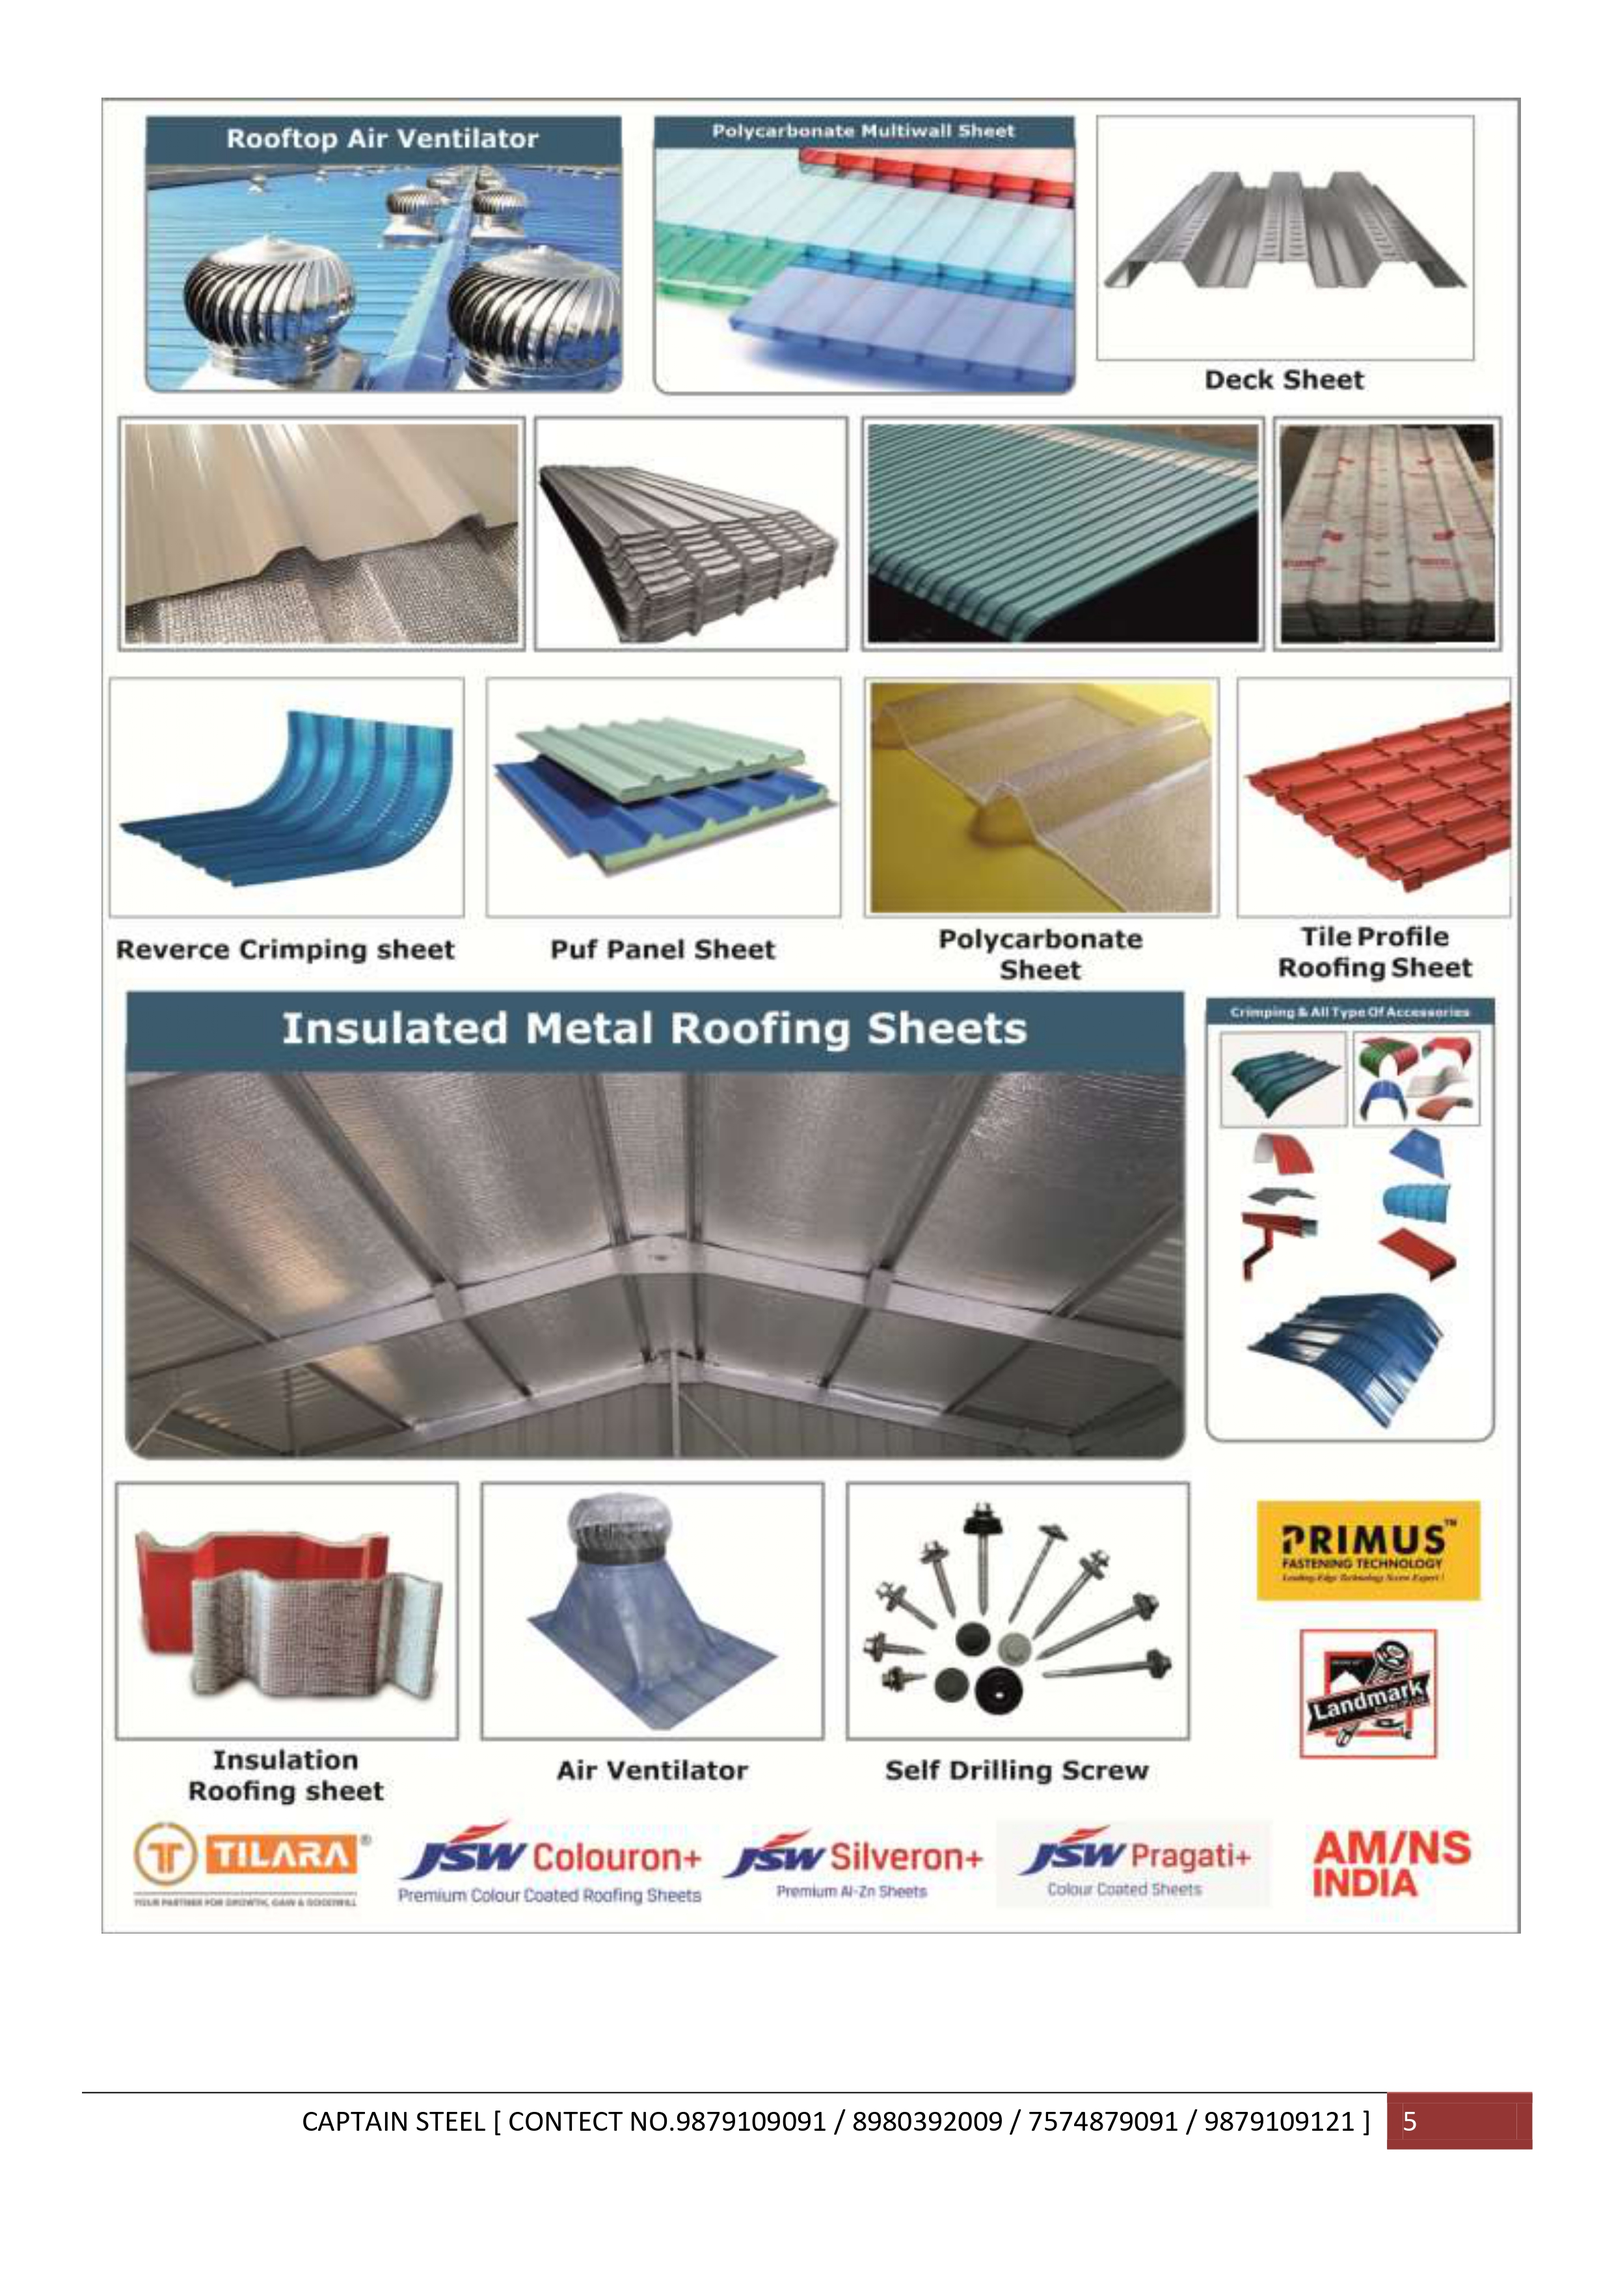
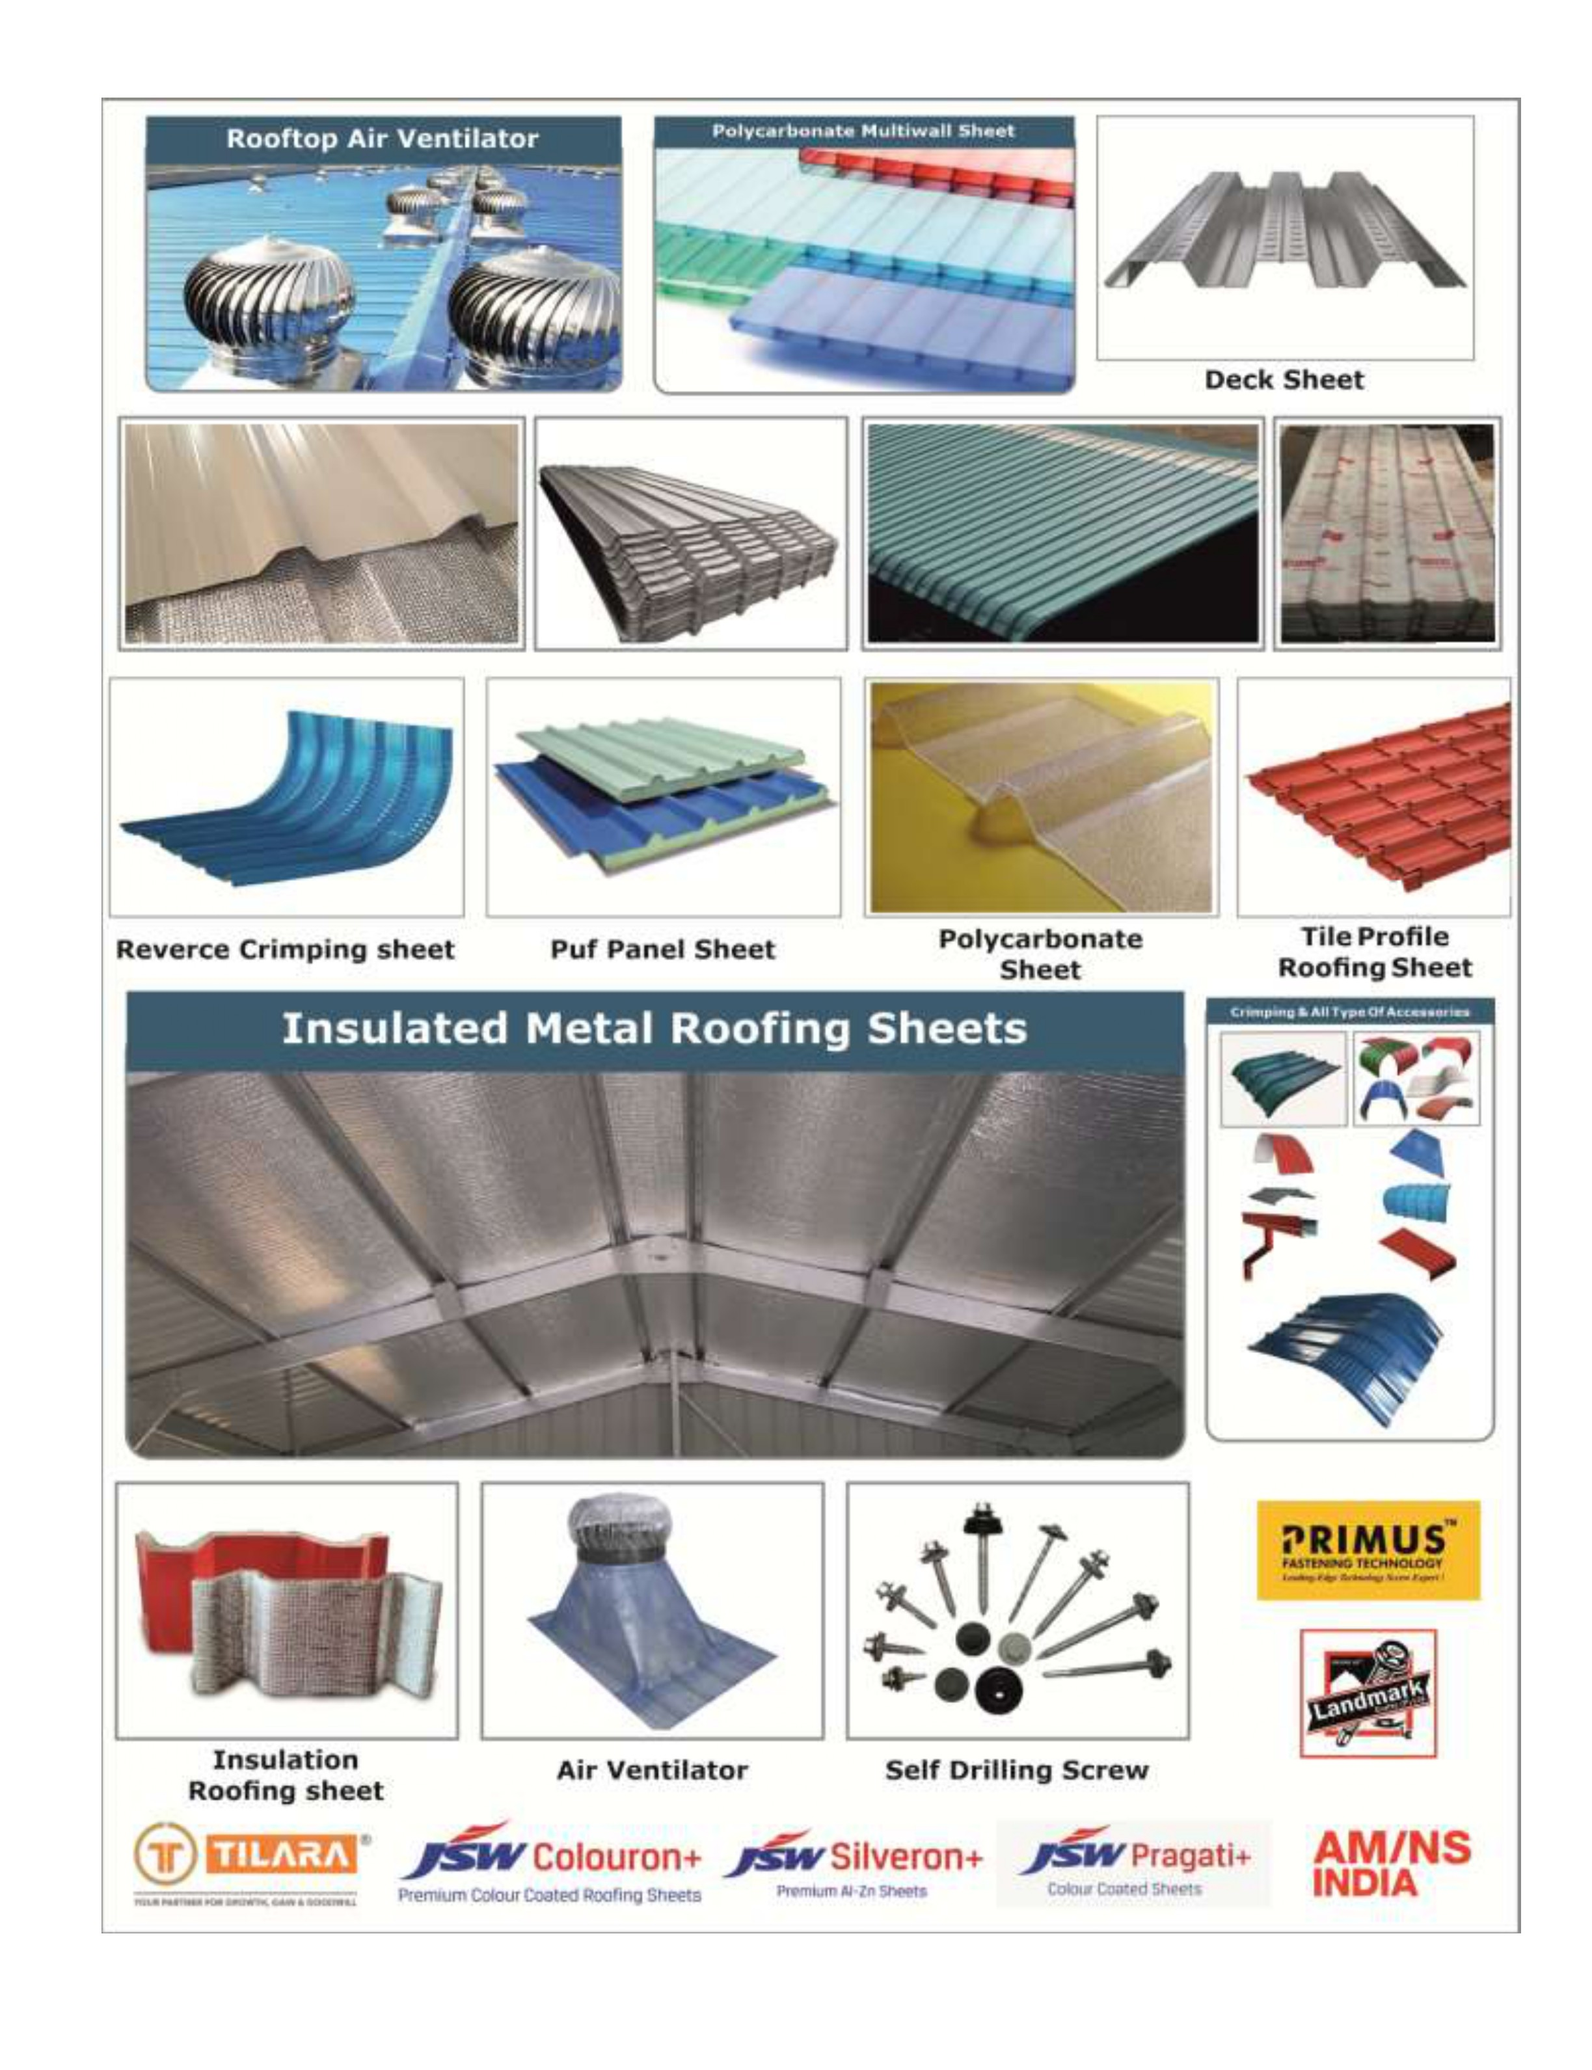
Enhance PDF Quotation with Page Footers and Last Page Image
- Added page footer with contact information and horizontal line
- Implemented dynamic page footer generation for multiple pages
- Added a last page image to the PDF quotation
- Updated terms section with consistent color styling
- Removed commented-out footer method

diff --git a/src/main/java/com/inventory/service/PdfGenerationService.java b/src/main/java/com/inventory/service/PdfGenerationService.java
@@ -48,11 +48,19 @@ public class PdfGenerationService {
             Document document = new Document(pdf, PageSize.A4);
             document.setMargins(36, 36, 36, 36);
             
+            // Add content
             addHeader(document, quotationData);
+            addPageFooter(pdf, document, 1);
+            
             addQuotationDetails(document, quotationData);
             addItemsTable(document, (List<Map<String, Object>>) quotationData.get("items"), quotationData);
+            addPageFooter(pdf, document, 2);
+            
             addBankDetailsAndTerms(document);
-//            addFooter(document, quotationData);
+            addPageFooter(pdf, document, 3);
+            
+            addLastPage(document);
+            addPageFooter(pdf, document, 4);
             
             document.close();
             return outputStream.toByteArray();
@@ -465,12 +473,12 @@ public class PdfGenerationService {
             .setMarginBottom(10));
         
         // Add terms
-        addTerm(document, "1.", "Customer will be billed after indicating acceptance of this quote.", PRIMARY_COLOR);
-        addTerm(document, "2.", "Payment 50% Advance And 50% before goods Dispatched.", PRIMARY_COLOR);
-        addTerm(document, "3.", "Transport Transaction Extra", PRIMARY_COLOR);
-        addTerm(document, "4.", "The Responsibility Of All the Material Will Be With That Company.\nThere Will Be No Responsibility Of The Distributor I.E. Captain Steel.", PRIMARY_COLOR);
-        addTerm(document, "5.", "SUBJECT TO GONDAL JURISDICTION.", PRIMARY_COLOR);
-        addTerm(document, "6.", "THIS QUOTATION IS VALID FOR TWO DAYS.", PRIMARY_COLOR);
+        addTerm(document, "1.", "Customer will be billed after indicating acceptance of this quote.", new DeviceRgb(66, 133, 244));
+        addTerm(document, "2.", "Payment 50% Advance And 50% before goods Dispatched.", new DeviceRgb(66, 133, 244));
+        addTerm(document, "3.", "Transport Transaction Extra", new DeviceRgb(66, 133, 244));
+        addTerm(document, "4.", "The Responsibility Of All the Material Will Be With That Company.\nThere Will Be No Responsibility Of The Distributor I.E. Captain Steel.", new DeviceRgb(66, 133, 244));
+        addTerm(document, "5.", "SUBJECT TO GONDAL JURISDICTION.", new DeviceRgb(66, 133, 244));
+        addTerm(document, "6.", "THIS QUOTATION IS VALID FOR TWO DAYS.", new DeviceRgb(66, 133, 244));
     }
 
     private void addBankDetail(Table table, String label, String value) {
@@ -488,14 +496,62 @@ public class PdfGenerationService {
             .setMarginBottom(5));
     }
     
-    private void addFooter(Document document, Map<String, Object> data) {
-        document.add(new Paragraph("\n"));
+    private void addLastPage(Document document) {
+        // Start new page
+        document.add(new AreaBreak(AreaBreakType.NEXT_PAGE));
         
+        try {
+            // Load and add the image
+            ImageData imageData = ImageDataFactory.create("src/main/resources/quotation/Quotation_last_page.jpg");
+            Image img = new Image(imageData);
             
-        // Signatures
-        Table signatures = new Table(2).useAllAvailableWidth().setMarginTop(50);
-        signatures.addCell(new Cell().add(new Paragraph("For Company")).setBorder(Border.NO_BORDER));
-        signatures.addCell(new Cell().add(new Paragraph("For Customer")).setBorder(Border.NO_BORDER).setTextAlignment(TextAlignment.RIGHT));
-        document.add(signatures);
+            // Get page dimensions
+            float pageWidth = document.getPdfDocument().getDefaultPageSize().getWidth();
+            float pageHeight = document.getPdfDocument().getDefaultPageSize().getHeight();
+            
+            // Set image to fill the entire page
+            img.setFixedPosition(0, 0);  // Start from top-left corner
+            img.scaleToFit(pageWidth, pageHeight);
+            img.setMargins(0, 0, 0, 0);  // Remove all margins
+            
+            document.add(img);
+        } catch (Exception e) {
+            log.error("Error loading last page image", e);
+            e.printStackTrace();
+        }
+    }
+
+    private void addPageFooter(PdfDocument pdfDoc, Document document, int pageNumber) {
+        float footerY = 20;  // Distance from bottom
+        float pageWidth = pdfDoc.getDefaultPageSize().getWidth();
+        
+        // Create HR line table
+        Table lineTable = new Table(1)
+            .useAllAvailableWidth()
+            .setFixedPosition(36, footerY + 15, pageWidth - 72);  // Position above footer text
+        
+        lineTable.addCell(new Cell()
+            .setHeight(0.5f)
+            .setBackgroundColor(TEXT_PRIMARY)
+            .setBorder(Border.NO_BORDER));
+        
+        // Create footer table with single column for centered content
+        Table footerTable = new Table(1)
+            .useAllAvailableWidth()
+            .setFixedPosition(36, footerY, pageWidth - 72);
+        
+        // Contact information cell (center-aligned)
+        Cell contactCell = new Cell()
+            .add(new Paragraph("CAPTAIN STEEL [ CONTECT NO.9879109091 / 8980392009 / 7574879091 / 9879109121 ]")
+                .setFontSize(8)
+                .setFontColor(TEXT_PRIMARY))
+            .setBorder(Border.NO_BORDER)
+            .setTextAlignment(TextAlignment.CENTER);
+        
+        footerTable.addCell(contactCell);
+        
+        // Add both tables to document
+        document.add(lineTable);
+        document.add(footerTable);
     }
 } 
